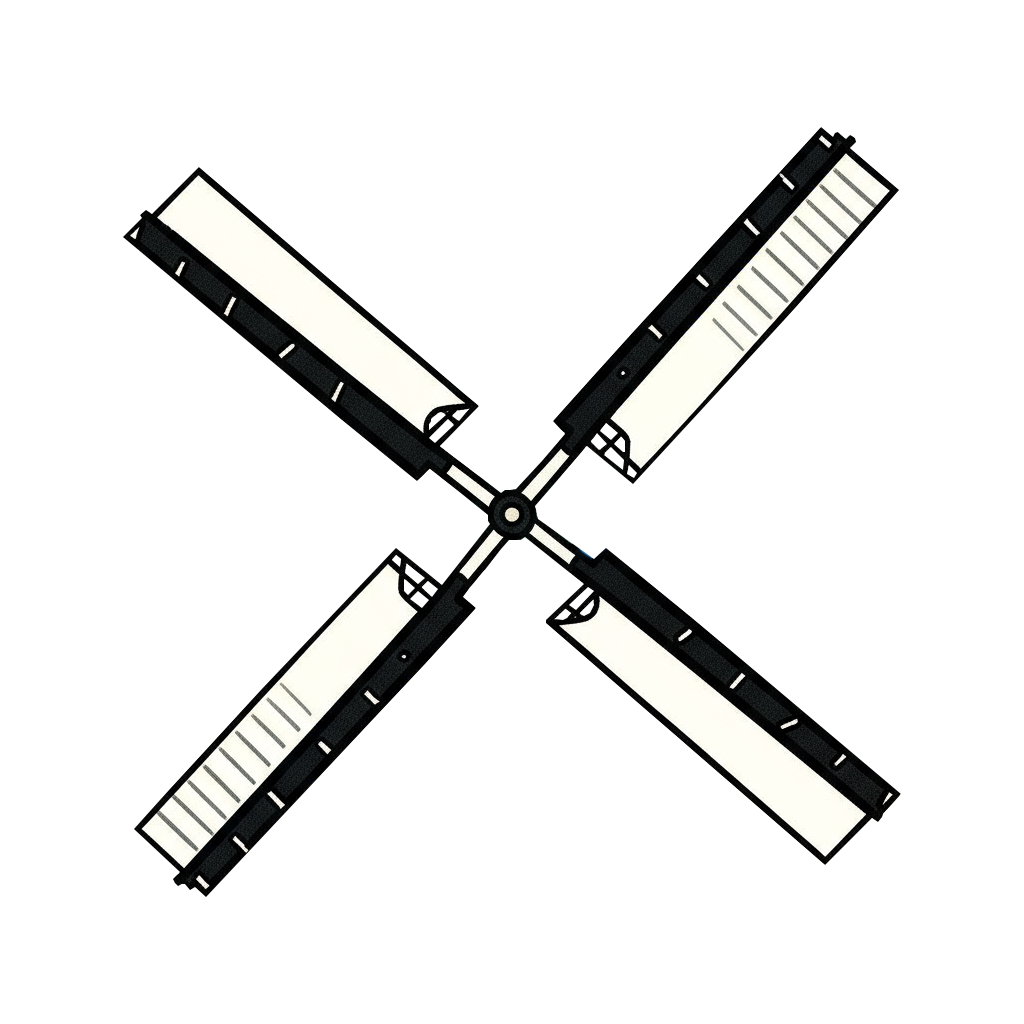
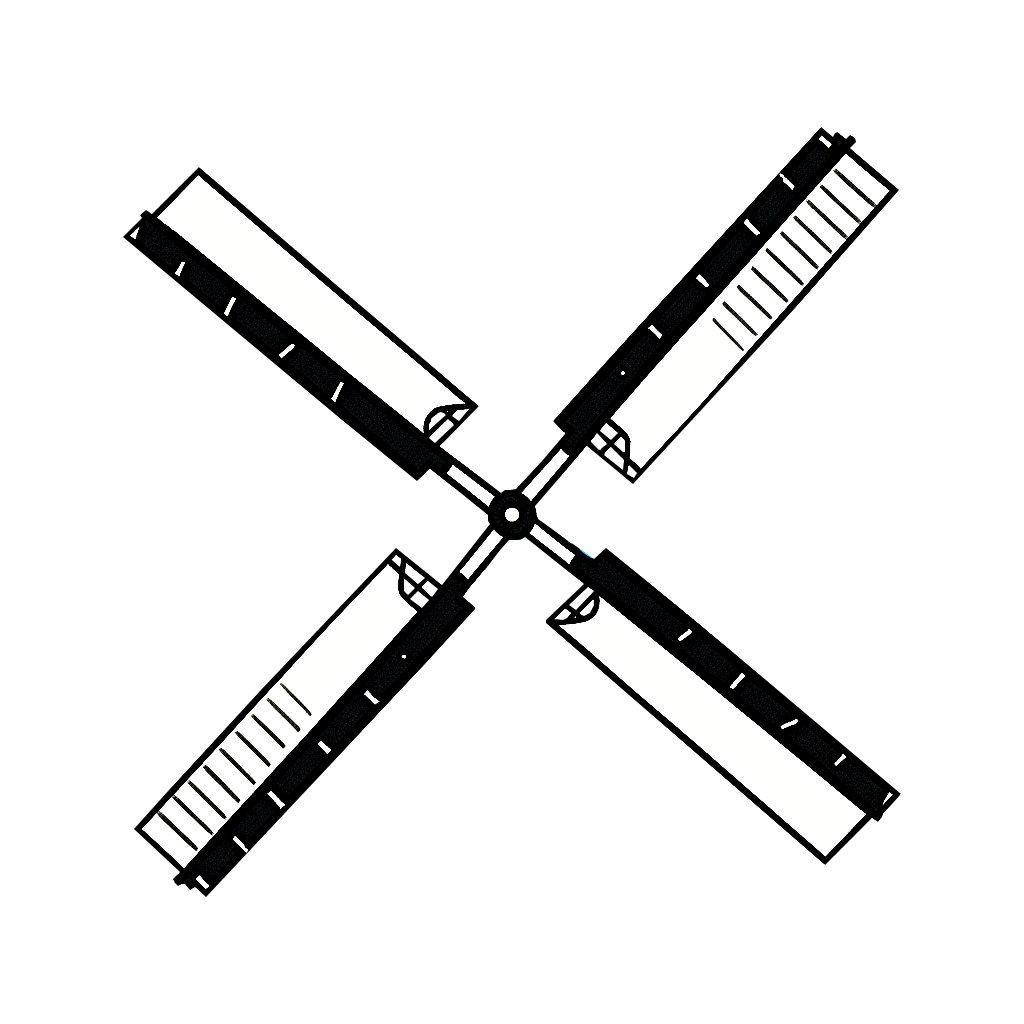
update game3 flow

diff --git a/Windmill/Assets/Projects/Scripts/BladeMouseRotator.cs b/Windmill/Assets/Projects/Scripts/BladeMouseRotator.cs
@@ -1,4 +1,5 @@
 using System;
+using System.Collections.Generic;
 using UnityEngine;
 using UnityEngine.UI;
 
@@ -70,6 +71,13 @@ public class BladeMouseRotator : MonoBehaviour
     public void OnRelease(Vector2 pos)
     {
         isDragging = false;
+        float canonicalAngle = SecretLanguageManager.Instance.GetCanonicalBladeAngle(transform.eulerAngles.z);
+        float closestAngle = SecretLanguageManager.Instance.GetClosestCanonicalAngle(canonicalAngle);
+        if (useCanonicalAngle)
+        {
+            // Snap to closest canonical angle
+            transform.rotation = Quaternion.Euler(0, 0, closestAngle);
+        }
     }
 
     void Update()
@@ -106,6 +114,7 @@ public class BladeMouseRotator : MonoBehaviour
 
     public void DisableRotation()
     {
+        OnRelease(Vector2.zero);
         validateButton.image.color = normalButtonColor;
         canRotate = false;
         isDragging = false;
@@ -124,7 +133,7 @@ public class BladeMouseRotator : MonoBehaviour
     // Optional: Reset rotation with key press for testing
     public void ResetRotation()
     {
-        transform.rotation = Quaternion.identity;
+        transform.localEulerAngles = new Vector3(0, 0, 5);
         Debug.Log("Rotation reset to 0°");
     }
 

diff --git a/Windmill/Assets/Projects/Scripts/SecretLanguageManager.cs b/Windmill/Assets/Projects/Scripts/SecretLanguageManager.cs
@@ -4,6 +4,7 @@ using UnityEngine;
 using UnityEngine.UI;
 using TMPro;
 using Photon.Pun;
+using System;
 
 public class SecretLanguageManager : MonoBehaviour
 {
@@ -383,5 +384,26 @@ public class SecretLanguageManager : MonoBehaviour
     {
         yield return new WaitForSeconds(delay);
         StartRound(1);
+    }
+
+     public List<float> newAngles = new List<float> { 5,42,72,102,130};
+
+    public float GetClosestCanonicalAngle(float canonicalAngle)
+    {
+        
+        float closestAngle = newAngles[0];
+        float smallestDifference = Mathf.Abs(canonicalAngle - closestAngle);
+
+        foreach (float angle in newAngles)
+        {
+            float difference = Mathf.Abs(canonicalAngle - angle);
+            if (difference < smallestDifference)
+            {
+                smallestDifference = difference;
+                closestAngle = angle;
+            }
+        }
+        Debug.Log("i dont know what happend but let check " + canonicalAngle + " and what we return" + closestAngle);
+        return closestAngle;
     }
 }
